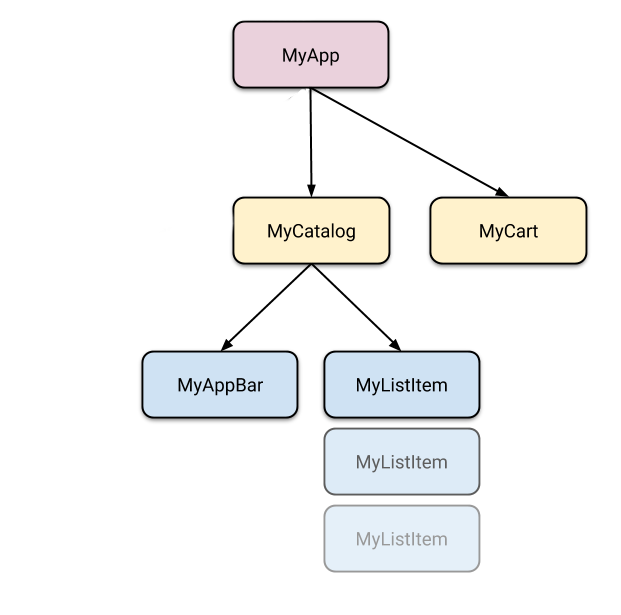
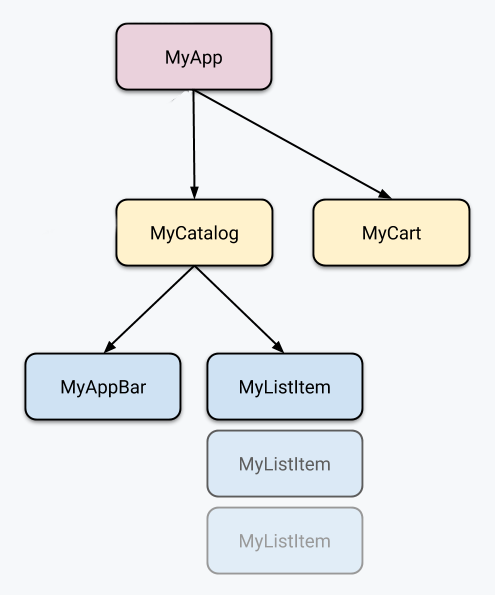
Place official Flutter diagrams on light cards so they stay visible on GitHub dark.

diff --git a/modul-04-state/README.md b/modul-04-state/README.md
@@ -85,9 +85,9 @@ Tidak ada garis ajaib. Tab bawah bisa tetap `setState`. Keranjang yang harus kel
 
 Flutter menggambar layar dari ingatan. Rumus resmi mereka: **UI = f(state)** — layar = hasil dari data saat ini. Data berubah, Flutter menggambar ulang. Bukan Anda yang menggeser angka di layar secara manual.
 
-<img src="images/ui-equals-function-of-state.png" alt="Rumus resmi Flutter: UI sama dengan fungsi dari state" width="720">
+<img src="images/ui-equals-function-of-state.png" alt="Rumus resmi Flutter: UI sama dengan fungsi dari state" width="542">
 
-Sumber gambar: [Start thinking declaratively](https://docs.flutter.dev/data-and-backend/state-mgmt/declarative), Flutter team / Google ([CC BY 4.0](https://creativecommons.org/licenses/by/4.0/)). Label di gambar bahasa Inggris; artinya sama dengan kalimat di atas. Berkas disalin ke repo ini supaya tidak bergantung pada hotlink docs.flutter.dev.
+Sumber gambar: [Start thinking declaratively](https://docs.flutter.dev/data-and-backend/state-mgmt/declarative), Flutter team / Google ([CC BY 4.0](https://creativecommons.org/licenses/by/4.0/)). Label di gambar bahasa Inggris; artinya sama dengan kalimat di atas. Berkas aslinya transparan; di sini diletakkan di kartu terang supaya tidak hilang di GitHub gelap.
 
 Sumber konsep: [State management](https://docs.flutter.dev/data-and-backend/state-mgmt/intro). Flutter and the related logo are trademarks of Google LLC.
 
@@ -396,9 +396,16 @@ Dokumentasi Flutter bilang: kalau tidak ada alasan kuat memilih yang lain, mulai
 
 Contoh resmi Flutter memakai toko: katalog dan keranjang. Dua halaman itu saudara, bukan induk-anak. Nanti kotak Provider ditaruh **di atas keduanya**, supaya isi keranjang sama.
 
-<img src="images/simple-widget-tree.png" alt="Pohon widget contoh toko resmi Flutter: MyApp di atas, MyCatalog dan MyCart di bawah" width="621">
+<img src="images/simple-widget-tree.png" alt="Pohon widget contoh toko resmi Flutter: MyApp di atas, MyCatalog dan MyCart di bawah" width="495">
 
-Sumber gambar: [Simple app state management](https://docs.flutter.dev/data-and-backend/state-mgmt/simple), Flutter team / Google ([CC BY 4.0](https://creativecommons.org/licenses/by/4.0/)). Nama di gambar bahasa Inggris (`MyApp`, `MyCatalog`, `MyCart`). Di latihan kita: `MateriApp`, `KatalogPage`, `KeranjangPage`. Berkas disalin ke repo ini.
+Sumber gambar: [Simple app state management](https://docs.flutter.dev/data-and-backend/state-mgmt/simple), Flutter team / Google ([CC BY 4.0](https://creativecommons.org/licenses/by/4.0/)). Nama di gambar bahasa Inggris (`MyApp`, `MyCatalog`, `MyCart`). Di latihan kita: `MateriApp`, `KatalogPage`, `KeranjangPage`. Berkas aslinya transparan; di sini diletakkan di kartu terang supaya tidak hilang di GitHub gelap.
+
+```mermaid
+flowchart TB
+  App["MateriApp"]
+  App --> Katalog
+  App --> Keranjang
+```
 
 Tiga nama yang perlu diingat:
 

diff --git a/SILABUS.md b/SILABUS.md
@@ -66,6 +66,7 @@ Supaya tidak perlu menebak alat, tiap modul memakai pola yang sama:
 | 14 Agu 2026 | Analogi Stack Modul 02: Foto dan Lencana menumpuk, bukan berjajar | Di GitHub, dua kotak berjajar terasa seperti Row, padahal teksnya Stack |
 | 14 Agu 2026 | Audit GitHub Modul 03: analogi Daftar/Form jadi tumpukan rapat; mermaid satu arah (bukan dua kotak tanpa panah); analogi Ketuk/Tahan; langkah mini proyek | PNG 720×373 pilar tinggi di GitHub gelap terasa rusak; diagram tanpa panah terasa error |
 | 14 Agu 2026 | Audit GitHub Modul 04: mermaid FutureBuilder TB; analogi Ingatan dipotong rapat; analogi Menunggu/Selesai/Gagal; langkah mini proyek; rumus UI=f(state) dan pohon widget toko disalin ke repo | Diagram LR sempat ruang kosong di GitHub; PNG Ingatan 720×311 terasa seperti pilar; hotlink docs.flutter.dev pernah kotak merah di modul lain |
+| 14 Agu 2026 | Audit GitHub Modul 04 (putaran 2): diagram resmi Flutter diletakkan di kartu terang; mermaid pohon MateriApp/Katalog/Keranjang | PNG resmi transparan 78–90% di GitHub gelap terasa seperti lubang hitam kosong |
 
 ---
 
